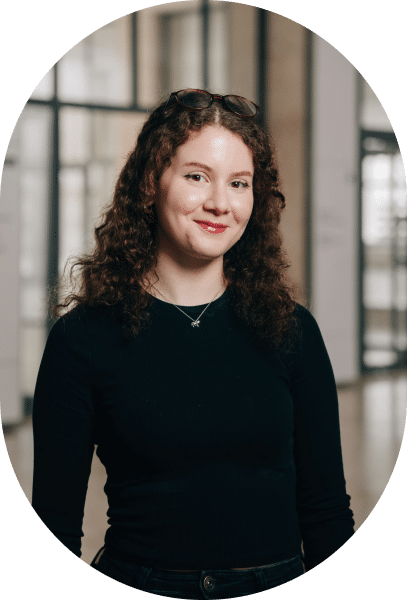
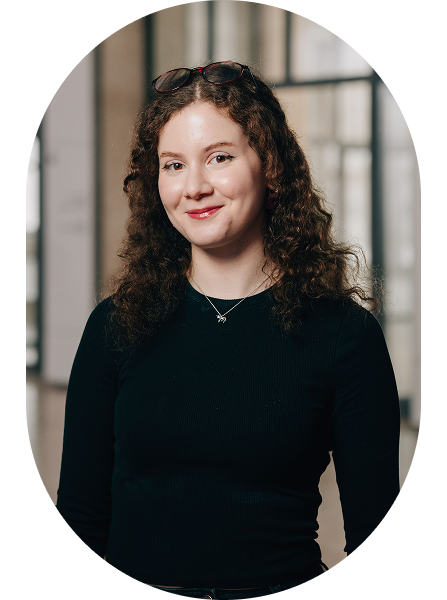
accessiblity version1

diff --git a/src/css/layout.css b/src/css/layout.css
@@ -244,9 +244,184 @@
   opacity: 1;
 }
 
-.social-links a:hover .buttonLinkedin-default, 
+.social-links a:hover .buttonLinkedin-default,
 .social-links a:hover .buttonEmail-default {
   opacity: 0;
+}
+
+.accessibility_button {
+  display: flex;
+  align-items: center;
+  justify-content: center;
+  width: 34px;
+  height: 34px;
+  flex-shrink: 0;
+  border: none;
+  padding: 0;
+  border-radius: 50%;
+  background-color: black;
+  cursor: pointer;
+  transition: transform 0.2s ease;
+}
+
+.accessibility_button:hover,
+.accessibility_button:focus-visible {
+  /*36/34 — grows the button visually without resizing its flex box, so the
+    LinkedIn/Email icons above it don't shift*/
+  transform: scale(1.0588);
+}
+
+.accessibility_icon {
+  width: 21px;
+  height: 21px;
+  flex-shrink: 0;
+  background-color: var(--white);
+  mask-image: url('../../public/assets/images/accessiblity_icon.svg');
+  mask-repeat: no-repeat;
+  mask-position: center;
+  mask-size: contain;
+  -webkit-mask-image: url('../../public/assets/images/accessiblity_icon.svg');
+  -webkit-mask-repeat: no-repeat;
+  -webkit-mask-position: center;
+  -webkit-mask-size: contain;
+}
+
+/*  ACCESSIBILITY MENU  */
+.a11y_overlay[hidden] {
+  display: none;
+}
+
+.a11y_overlay {
+  position: fixed;
+  inset: 0;
+  z-index: 2000;
+}
+
+.a11y_backdrop {
+  position: absolute;
+  inset: 0;
+  background-color: rgba(0, 0, 0, 0.45);
+}
+
+/*anchored bottom-left near the trigger, but shifted clear of the social-links icon
+  column (34px wide, 8px from the edge) so the open panel never covers its own trigger*/
+.a11y_panel {
+  position: absolute;
+  left: 56px;
+  bottom: 16px;
+  width: 280px;
+  max-width: calc(100vw - 72px);
+  max-height: calc(100vh - 32px);
+  overflow-y: auto;
+  border-radius: 16px;
+  background-color: var(--white);
+  box-shadow: 0 8px 24px rgba(0, 0, 0, 0.3);
+  font-family: 'Jost-Medium';
+}
+
+.a11y_panel_header {
+  display: flex;
+  align-items: center;
+  justify-content: space-between;
+  padding: 16px;
+  border-bottom: 1px solid rgba(0, 0, 0, 0.1);
+}
+
+.a11y_panel_title {
+  font-size: 18px;
+}
+
+.a11y_panel_close {
+  border: none;
+  background: none;
+  font-size: 20px;
+  line-height: 1;
+  cursor: pointer;
+  padding: 4px;
+}
+
+.a11y_panel_body {
+  display: flex;
+  flex-direction: column;
+  gap: 16px;
+  padding: 16px;
+}
+
+.a11y_option_row {
+  display: flex;
+  align-items: center;
+  justify-content: space-between;
+  font-family: 'Jost-Light';
+  font-size: 16px;
+  cursor: default;
+}
+
+.a11y_stepper {
+  display: flex;
+  gap: 8px;
+}
+
+.a11y_stepper_button {
+  width: 32px;
+  height: 32px;
+  border-radius: 50%;
+  border: 1px solid rgba(0, 0, 0, 0.2);
+  background-color: var(--white);
+  cursor: pointer;
+  font-family: 'Jost-Medium';
+}
+
+.a11y_stepper_button:hover {
+  background-color: rgba(0, 0, 0, 0.08);
+}
+
+.a11y_toggle {
+  width: 18px;
+  height: 18px;
+  cursor: pointer;
+  accent-color: black;
+}
+
+.a11y_reset_button {
+  align-self: flex-start;
+  border: 1px solid rgba(0, 0, 0, 0.2);
+  background-color: var(--white);
+  border-radius: 100px;
+  padding: 8px 16px;
+  font-family: 'Jost-Medium';
+  font-size: 14px;
+  cursor: pointer;
+}
+
+.a11y_reset_button:hover {
+  background-color: rgba(0, 0, 0, 0.08);
+}
+
+/*  ACCESSIBILITY STATE OVERRIDES — driven by classes accessibility.js toggles on <html>  */
+html.a11y-underline-links a {
+  text-decoration: underline !important;
+}
+
+html.a11y-contrast {
+  filter: contrast(1.3) brightness(1.05);
+}
+
+html.a11y-reduce-motion,
+html.a11y-reduce-motion *,
+html.a11y-reduce-motion *::before,
+html.a11y-reduce-motion *::after {
+  animation: none !important;
+  transition: none !important;
+  scroll-behavior: auto !important;
+}
+
+/*only affects elements already using var(--fs-body): paragraphs, list items, project body text*/
+html.a11y-text-1 {
+  --fs-body: clamp(17px, 0.6vw + 15px, 23px);
+}
+
+html.a11y-text-2 {
+  --fs-body: clamp(19px, 0.68vw + 17px, 26px);
 }
 
 

diff --git a/src/js/accessibility.js b/src/js/accessibility.js
@@ -1,0 +1,105 @@
+//accessibility widget: floating button opens a panel with text size, contrast, underline-links and reduce-motion controls
+(function () {
+  const STORAGE_KEY = 'a11y-preferences';
+  const TOGGLE_CLASSES = {
+    contrast: 'a11y-contrast',
+    'underline-links': 'a11y-underline-links',
+    'reduce-motion': 'a11y-reduce-motion',
+  };
+  const TEXT_SIZE_CLASSES = ['', 'a11y-text-1', 'a11y-text-2'];
+
+  const root = document.documentElement;
+  const trigger = document.getElementById('a11yTrigger');
+  const overlay = document.getElementById('a11yOverlay');
+  if (!trigger || !overlay) return;
+
+  const panel = document.getElementById('a11yPanel');
+  const toggles = overlay.querySelectorAll('[data-a11y-toggle]');
+  const closeEls = overlay.querySelectorAll('[data-a11y-close]');
+  const actionEls = overlay.querySelectorAll('[data-a11y-action]');
+
+  function loadState() {
+    try {
+      return JSON.parse(localStorage.getItem(STORAGE_KEY)) || {};
+    } catch (e) {
+      return {};
+    }
+  }
+
+  function saveState(state) {
+    try {
+      localStorage.setItem(STORAGE_KEY, JSON.stringify(state));
+    } catch (e) {
+      /*private-browsing/storage-blocked — preferences just won't persist across reloads*/
+    }
+  }
+
+  let state = Object.assign({ textSize: 0, contrast: false, 'underline-links': false, 'reduce-motion': false }, loadState());
+
+  function applyState() {
+    Object.keys(TOGGLE_CLASSES).forEach((key) => {
+      root.classList.toggle(TOGGLE_CLASSES[key], !!state[key]);
+    });
+    toggles.forEach((el) => {
+      el.checked = !!state[el.dataset.a11yToggle];
+    });
+
+    TEXT_SIZE_CLASSES.forEach((cls) => cls && root.classList.remove(cls));
+    const sizeClass = TEXT_SIZE_CLASSES[state.textSize] || '';
+    if (sizeClass) root.classList.add(sizeClass);
+  }
+
+  applyState();
+
+  function openPanel() {
+    overlay.hidden = false;
+    trigger.setAttribute('aria-expanded', 'true');
+    const closeButton = overlay.querySelector('.a11y_panel_close');
+    if (closeButton) closeButton.focus();
+    document.addEventListener('keydown', onKeydown);
+  }
+
+  function closePanel() {
+    overlay.hidden = true;
+    trigger.setAttribute('aria-expanded', 'false');
+    trigger.focus();
+    document.removeEventListener('keydown', onKeydown);
+  }
+
+  function onKeydown(e) {
+    if (e.key === 'Escape') closePanel();
+  }
+
+  trigger.addEventListener('click', () => {
+    if (overlay.hidden) openPanel();
+    else closePanel();
+  });
+
+  closeEls.forEach((el) => el.addEventListener('click', closePanel));
+
+  //stop clicks inside the panel from bubbling to the backdrop and closing it
+  if (panel) panel.addEventListener('click', (e) => e.stopPropagation());
+
+  toggles.forEach((el) => {
+    el.addEventListener('change', () => {
+      state[el.dataset.a11yToggle] = el.checked;
+      saveState(state);
+      applyState();
+    });
+  });
+
+  actionEls.forEach((el) => {
+    el.addEventListener('click', () => {
+      const action = el.dataset.a11yAction;
+      if (action === 'text-increase') {
+        state.textSize = Math.min(state.textSize + 1, TEXT_SIZE_CLASSES.length - 1);
+      } else if (action === 'text-decrease') {
+        state.textSize = Math.max(state.textSize - 1, 0);
+      } else if (action === 'reset') {
+        state = { textSize: 0, contrast: false, 'underline-links': false, 'reduce-motion': false };
+      }
+      saveState(state);
+      applyState();
+    });
+  });
+})();

diff --git a/index.html b/index.html
@@ -25,6 +25,7 @@
     <script src="src/js/navbar.js" defer></script>
     <script src="src/js/footer.js" defer></script>
     <script src="src/js/main.js" defer></script>
+    <script src="src/js/accessibility.js" defer></script>
 
     <!--logo-->
     <link
@@ -75,7 +76,85 @@
             aria-hidden="true"
           />
         </a>
+        <button
+          type="button"
+          class="accessibility_button"
+          aria-label="Accessibility options"
+          aria-haspopup="dialog"
+          aria-expanded="false"
+          aria-controls="a11yPanel"
+          id="a11yTrigger"
+        >
+          <span class="accessibility_icon"></span>
+        </button>
       </aside>
+
+      <!--  ACCESSIBILITY MENU  -->
+      <div class="a11y_overlay" id="a11yOverlay" hidden>
+        <div class="a11y_backdrop" data-a11y-close></div>
+        <div
+          class="a11y_panel"
+          id="a11yPanel"
+          role="dialog"
+          aria-modal="true"
+          aria-labelledby="a11yPanelTitle"
+        >
+          <div class="a11y_panel_header">
+            <p id="a11yPanelTitle" class="a11y_panel_title">Accessibility</p>
+            <button
+              type="button"
+              class="a11y_panel_close"
+              data-a11y-close
+              aria-label="Close accessibility menu"
+            >
+              &times;
+            </button>
+          </div>
+
+          <div class="a11y_panel_body">
+            <div class="a11y_option_row">
+              <span>Text Size</span>
+              <div class="a11y_stepper">
+                <button
+                  type="button"
+                  class="a11y_stepper_button"
+                  data-a11y-action="text-decrease"
+                  aria-label="Decrease text size"
+                >
+                  A&minus;
+                </button>
+                <button
+                  type="button"
+                  class="a11y_stepper_button"
+                  data-a11y-action="text-increase"
+                  aria-label="Increase text size"
+                >
+                  A&plus;
+                </button>
+              </div>
+            </div>
+
+            <label class="a11y_option_row a11y_toggle_row">
+              <span>High Contrast</span>
+              <input type="checkbox" class="a11y_toggle" data-a11y-toggle="contrast" />
+            </label>
+
+            <label class="a11y_option_row a11y_toggle_row">
+              <span>Underline Links</span>
+              <input type="checkbox" class="a11y_toggle" data-a11y-toggle="underline-links" />
+            </label>
+
+            <label class="a11y_option_row a11y_toggle_row">
+              <span>Reduce Motion</span>
+              <input type="checkbox" class="a11y_toggle" data-a11y-toggle="reduce-motion" />
+            </label>
+
+            <button type="button" class="a11y_reset_button" data-a11y-action="reset">
+              Reset All
+            </button>
+          </div>
+        </div>
+      </div>
 
       <!-- wrapped so About's sticky cover-hero effect doesn't extend into Projects -->
       <div class="hero_about_stack">
